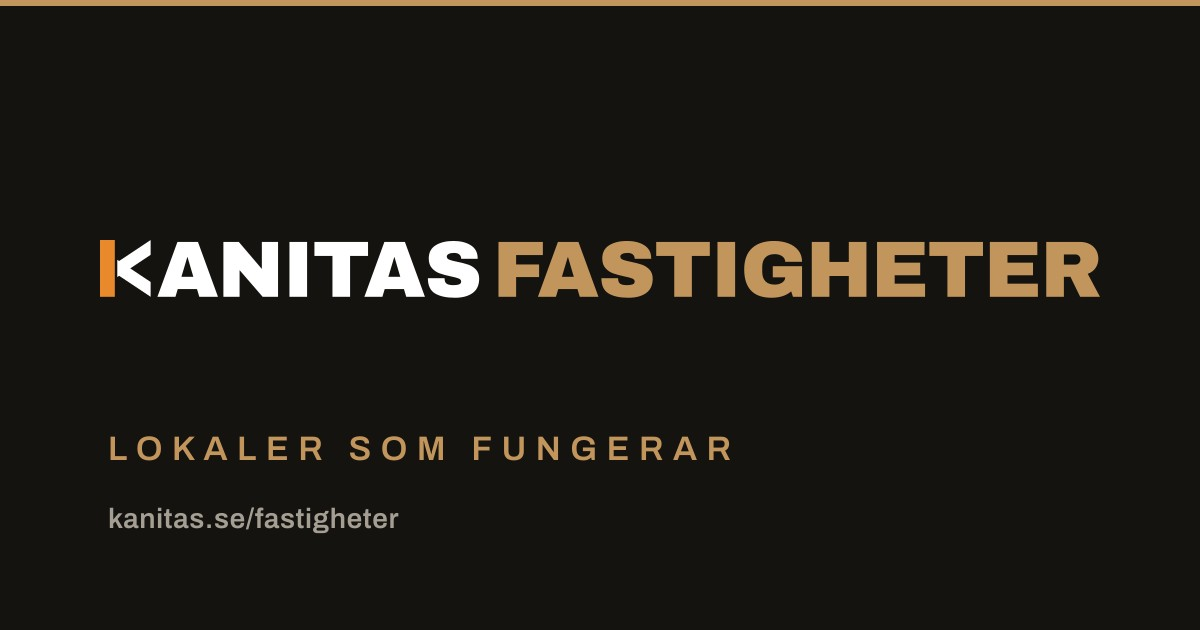
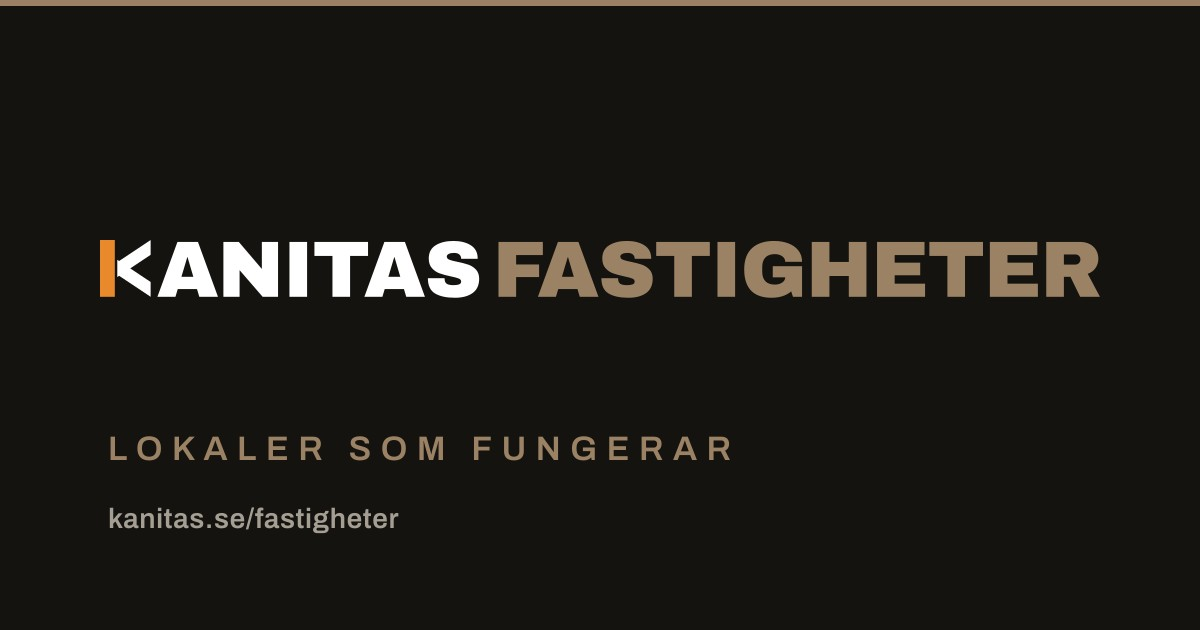
Semantic sub-brand palette, complete social metadata on every page
- Palette now maps to meaning: Städ fresh green (rent & fräscht),
  Fastigheter stone brown (sten & trä), Bil rust red (fordon); Bygg keeps
  construction amber. All tones AA-checked on their actual surfaces.
- Fix Next.js metadata replace-behavior bug: per-page openGraph overrides
  had silently dropped og:image on the home, about and contact pages and
  og:type/site_name/locale everywhere. New ogMeta() helper ships the
  complete OpenGraph + Twitter set per page.
- Regenerated per-area share images with the corrected tones.
- Site-wide crawl audit passes: links, anchors, images, canonicals,
  JSON-LD, sitemap on all seven pages.

Claude-Session: https://claude.ai/code/session_01K4YS91eKmGmPXnrpdcz1kA

Changed region(s): [[0.4008, 0.3619, 0.925, 0.4825], [0.0, 0.0, 1.0, 0.0302], [0.0925, 0.6937, 0.6167, 0.754]]

diff --git a/src/lib/site.ts b/src/lib/site.ts
@@ -109,8 +109,8 @@ export const areas: Area[] = [
     tagline: "Rent, klart och redo",
     h1: "Byggstädning och kontorsstädning i Stockholm",
     serviceType: "Byggstädning och kontorsstädning",
-    tone: "#a3b467",
-    toneDeep: "#5a6b2f",
+    tone: "#5cb57e",
+    toneDeep: "#296941",
     teaser:
       "Byggstädning, kontorsstädning och flyttstädning med dokumenterad kvalitet – för företag, BRF:er och byggprojekt.",
     intro:
@@ -152,8 +152,8 @@ export const areas: Area[] = [
     tagline: "Lokaler som fungerar",
     h1: "Lokaler att hyra i Storstockholm – fastigheter som fungerar",
     serviceType: "Fastighetsförvaltning och lokaluthyrning",
-    tone: "#c2955c",
-    toneDeep: "#7a5a28",
+    tone: "#9c8265",
+    toneDeep: "#5f4c37",
     teaser:
       "Vi förvärvar, förvaltar och hyr ut industri- och lagerlokaler i Storstockholm – med egen drift och skötsel.",
     intro:
@@ -195,8 +195,8 @@ export const areas: Area[] = [
     tagline: "Trygg bilaffär, utan krångel",
     h1: "Köp och sälj bil i Järfälla – trygg bilaffär utan krångel",
     serviceType: "Bilhandel – köp och försäljning av fordon",
-    tone: "#cd6a50",
-    toneDeep: "#99331d",
+    tone: "#de7562",
+    toneDeep: "#9c2e1f",
     teaser:
       "Köp och försäljning av personbilar, transportbilar, lastbilar och arbetsmaskiner – alltid genomgångna och rätt prissatta.",
     intro:
@@ -232,6 +232,37 @@ export const areas: Area[] = [
     },
   },
 ];
+
+/**
+ * Complete OpenGraph + Twitter metadata for a page. Next.js replaces nested
+ * metadata objects instead of merging them, so every page must ship the full
+ * set — this helper keeps og:image, og:type, siteName and twitter:card from
+ * silently disappearing.
+ */
+export function ogMeta(
+  title: string,
+  description: string,
+  path: string,
+  image = "/og.jpg",
+) {
+  return {
+    openGraph: {
+      type: "website" as const,
+      locale: "sv_SE",
+      siteName: site.legalName,
+      title,
+      description,
+      url: path,
+      images: [{ url: image, width: 1200, height: 630 }],
+    },
+    twitter: {
+      card: "summary_large_image" as const,
+      title,
+      description,
+      images: [image],
+    },
+  };
+}
 
 export const nav = [
   ...areas.map((a) => ({ href: `/${a.slug}`, label: a.nav })),

diff --git a/src/app/fastigheter/page.tsx b/src/app/fastigheter/page.tsx
@@ -1,6 +1,6 @@
 import type { Metadata } from "next";
 import AreaPage from "@/components/AreaPage";
-import { areas } from "@/lib/site";
+import { areas, ogMeta } from "@/lib/site";
 
 const area = areas.find((a) => a.slug === "fastigheter")!;
 
@@ -8,17 +8,12 @@ export const metadata: Metadata = {
   title: area.seo.title,
   description: area.seo.description,
   alternates: { canonical: "/fastigheter" },
-  openGraph: {
-    title: area.seo.title,
-    description: area.seo.description,
-    url: "/fastigheter",
-    images: [{ url: "/og-fastigheter.jpg", width: 1200, height: 630 }],
-  },
-  twitter: {
-    title: area.seo.title,
-    description: area.seo.description,
-    images: ["/og-fastigheter.jpg"],
-  },
+  ...ogMeta(
+    area.seo.title,
+    area.seo.description,
+    "/fastigheter",
+    "/og-fastigheter.jpg",
+  ),
 };
 
 export default function FastigheterPage() {

diff --git a/src/app/kontakt/page.tsx b/src/app/kontakt/page.tsx
@@ -1,6 +1,6 @@
 import type { Metadata } from "next";
 import ContactSection from "@/components/ContactSection";
-import { site } from "@/lib/site";
+import { ogMeta, site } from "@/lib/site";
 
 const pageTitle = "Kontakt – begär offert eller ring oss";
 const pageDescription = `Kontakta Kanitas i Järfälla: ring ${site.phone}, mejla ${site.email} eller skicka en offertförfrågan via formuläret. Vi återkommer oftast samma dag.`;
@@ -9,12 +9,7 @@ export const metadata: Metadata = {
   title: pageTitle,
   description: pageDescription,
   alternates: { canonical: "/kontakt" },
-  openGraph: {
-    title: pageTitle,
-    description: pageDescription,
-    url: "/kontakt",
-  },
-  twitter: { title: pageTitle, description: pageDescription },
+  ...ogMeta(pageTitle, pageDescription, "/kontakt"),
 };
 
 export default function KontaktPage() {

diff --git a/src/app/page.tsx b/src/app/page.tsx
@@ -5,7 +5,7 @@ import { ArrowRight, Phone } from "lucide-react";
 import ContactSection from "@/components/ContactSection";
 import Reveal from "@/components/Reveal";
 import SectionHeading from "@/components/SectionHeading";
-import { areas, references, site, stats, values } from "@/lib/site";
+import { areas, ogMeta, references, site, stats, values } from "@/lib/site";
 
 const pageTitle = "Kanitas – Bygg, städ, fastigheter & bil i Stockholm";
 const pageDescription =
@@ -15,8 +15,7 @@ export const metadata: Metadata = {
   title: pageTitle,
   description: pageDescription,
   alternates: { canonical: "/" },
-  openGraph: { title: pageTitle, description: pageDescription, url: "/" },
-  twitter: { title: pageTitle, description: pageDescription },
+  ...ogMeta(pageTitle, pageDescription, "/"),
 };
 
 export default function HomePage() {

diff --git a/src/app/bygg/page.tsx b/src/app/bygg/page.tsx
@@ -1,6 +1,6 @@
 import type { Metadata } from "next";
 import AreaPage from "@/components/AreaPage";
-import { areas } from "@/lib/site";
+import { areas, ogMeta } from "@/lib/site";
 
 const area = areas.find((a) => a.slug === "bygg")!;
 
@@ -8,17 +8,7 @@ export const metadata: Metadata = {
   title: area.seo.title,
   description: area.seo.description,
   alternates: { canonical: "/bygg" },
-  openGraph: {
-    title: area.seo.title,
-    description: area.seo.description,
-    url: "/bygg",
-    images: [{ url: "/og-bygg.jpg", width: 1200, height: 630 }],
-  },
-  twitter: {
-    title: area.seo.title,
-    description: area.seo.description,
-    images: ["/og-bygg.jpg"],
-  },
+  ...ogMeta(area.seo.title, area.seo.description, "/bygg", "/og-bygg.jpg"),
 };
 
 export default function ByggPage() {

diff --git a/src/app/stad/page.tsx b/src/app/stad/page.tsx
@@ -1,6 +1,6 @@
 import type { Metadata } from "next";
 import AreaPage from "@/components/AreaPage";
-import { areas } from "@/lib/site";
+import { areas, ogMeta } from "@/lib/site";
 
 const area = areas.find((a) => a.slug === "stad")!;
 
@@ -8,17 +8,7 @@ export const metadata: Metadata = {
   title: area.seo.title,
   description: area.seo.description,
   alternates: { canonical: "/stad" },
-  openGraph: {
-    title: area.seo.title,
-    description: area.seo.description,
-    url: "/stad",
-    images: [{ url: "/og-stad.jpg", width: 1200, height: 630 }],
-  },
-  twitter: {
-    title: area.seo.title,
-    description: area.seo.description,
-    images: ["/og-stad.jpg"],
-  },
+  ...ogMeta(area.seo.title, area.seo.description, "/stad", "/og-stad.jpg"),
 };
 
 export default function StadPage() {

diff --git a/src/app/bil/page.tsx b/src/app/bil/page.tsx
@@ -1,6 +1,6 @@
 import type { Metadata } from "next";
 import AreaPage from "@/components/AreaPage";
-import { areas } from "@/lib/site";
+import { areas, ogMeta } from "@/lib/site";
 
 const area = areas.find((a) => a.slug === "bil")!;
 
@@ -8,17 +8,7 @@ export const metadata: Metadata = {
   title: area.seo.title,
   description: area.seo.description,
   alternates: { canonical: "/bil" },
-  openGraph: {
-    title: area.seo.title,
-    description: area.seo.description,
-    url: "/bil",
-    images: [{ url: "/og-bil.jpg", width: 1200, height: 630 }],
-  },
-  twitter: {
-    title: area.seo.title,
-    description: area.seo.description,
-    images: ["/og-bil.jpg"],
-  },
+  ...ogMeta(area.seo.title, area.seo.description, "/bil", "/og-bil.jpg"),
 };
 
 export default function BilPage() {

diff --git a/src/app/om-oss/page.tsx b/src/app/om-oss/page.tsx
@@ -7,6 +7,7 @@ import SectionHeading from "@/components/SectionHeading";
 import {
   certifications,
   groupCompanies,
+  ogMeta,
   references,
   site,
   stats,
@@ -21,8 +22,7 @@ export const metadata: Metadata = {
   title: pageTitle,
   description: pageDescription,
   alternates: { canonical: "/om-oss" },
-  openGraph: { title: pageTitle, description: pageDescription, url: "/om-oss" },
-  twitter: { title: pageTitle, description: pageDescription },
+  ...ogMeta(pageTitle, pageDescription, "/om-oss"),
 };
 
 export default function OmOssPage() {
